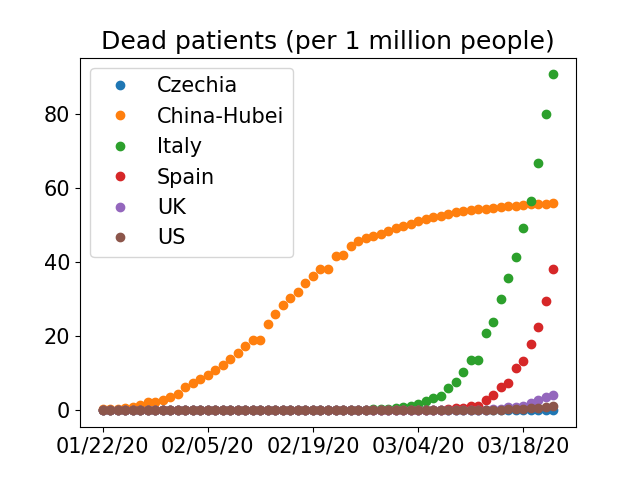
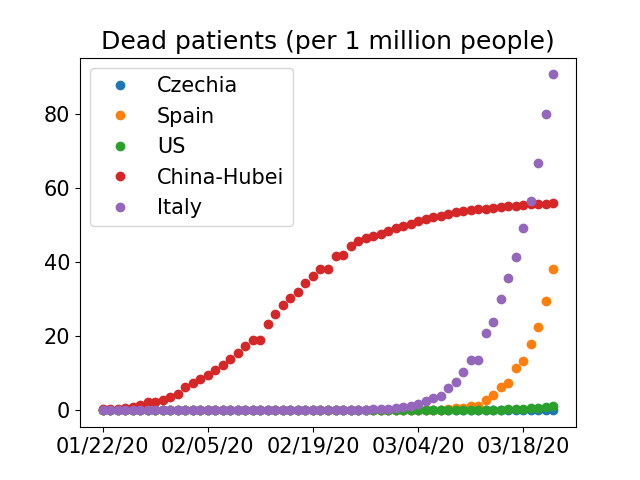
Better wording.

diff --git a/WorldCountriesData.py b/WorldCountriesData.py
@@ -1,7 +1,9 @@
 from datetime import timedelta, date
 import numpy as np
 
-countries = ['Czechia', 'China-Hubei', 'Italy', 'Spain', 'UK', 'US']
+# python3 WorldCountriesData.py
+
+countries = ['Czechia', 'Spain', 'US', 'China-Hubei', 'Italy']
 #countries = ['Czechia', 'Spain', 'California', 'Ecuador']
 # Fill the data on one-day-basis
 start_date = date(2020, 1, 22)

diff --git a/README.md b/README.md
@@ -1,12 +1,14 @@
 # Stats-Covid19
-This repo tracks the impact of Covid19 on countries around the world.
-
-Notice that we show a normalized data with respect to population or country or region.
-
-It should help to better understand and predict the phase of spread, while compared to other
-countries. Unfortunately, it seems that European countries will suffer from a higher death-rate compared to China.
+This repo tracks the impact of Covid19 on population of countries around the world, in particular Czechia, Spain, and the US.
 
 <table border="0">
 <td> <img src="dead.png">
 <td> <img src="confirmed.png">
 </table>
+
+Notice that we show a normalized data with respect to the population of country or region.
+
+It should help to better understand and predict the phase of spread, while compared to other
+countries. Unfortunately, it seems that European countries will suffer from a higher death-rate compared to China.
+The effect of population density is negligible.
+
